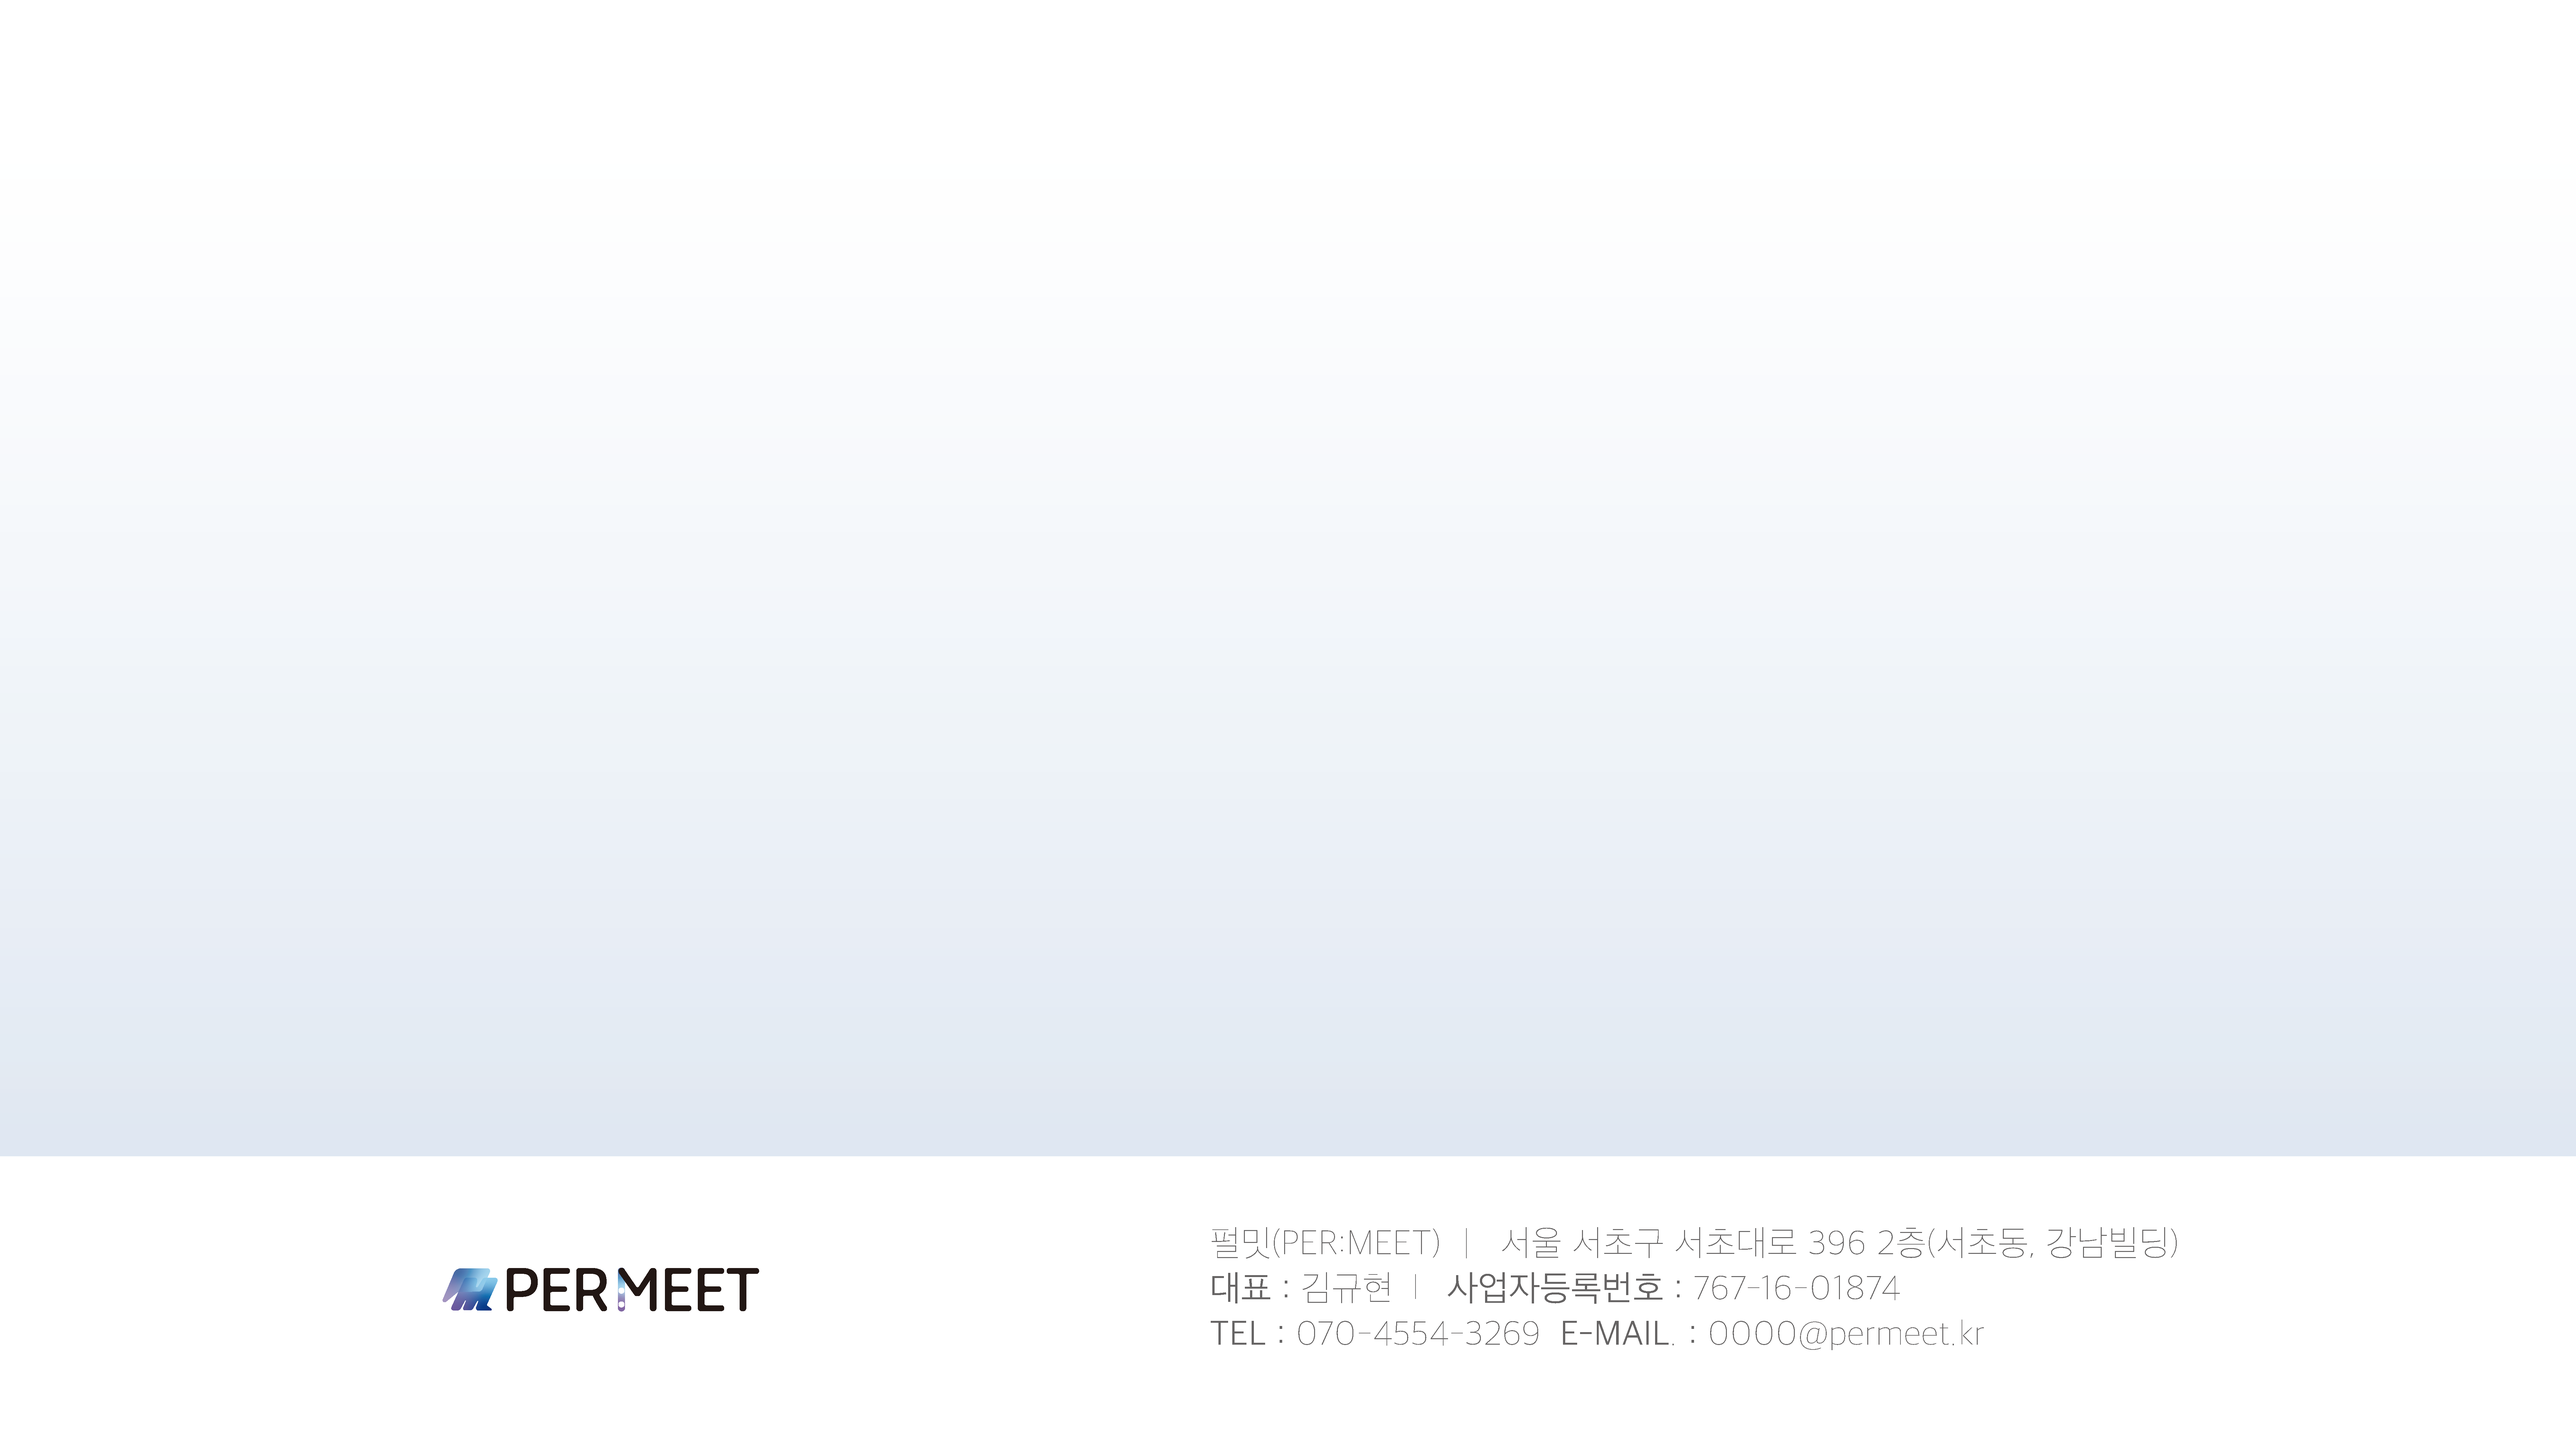
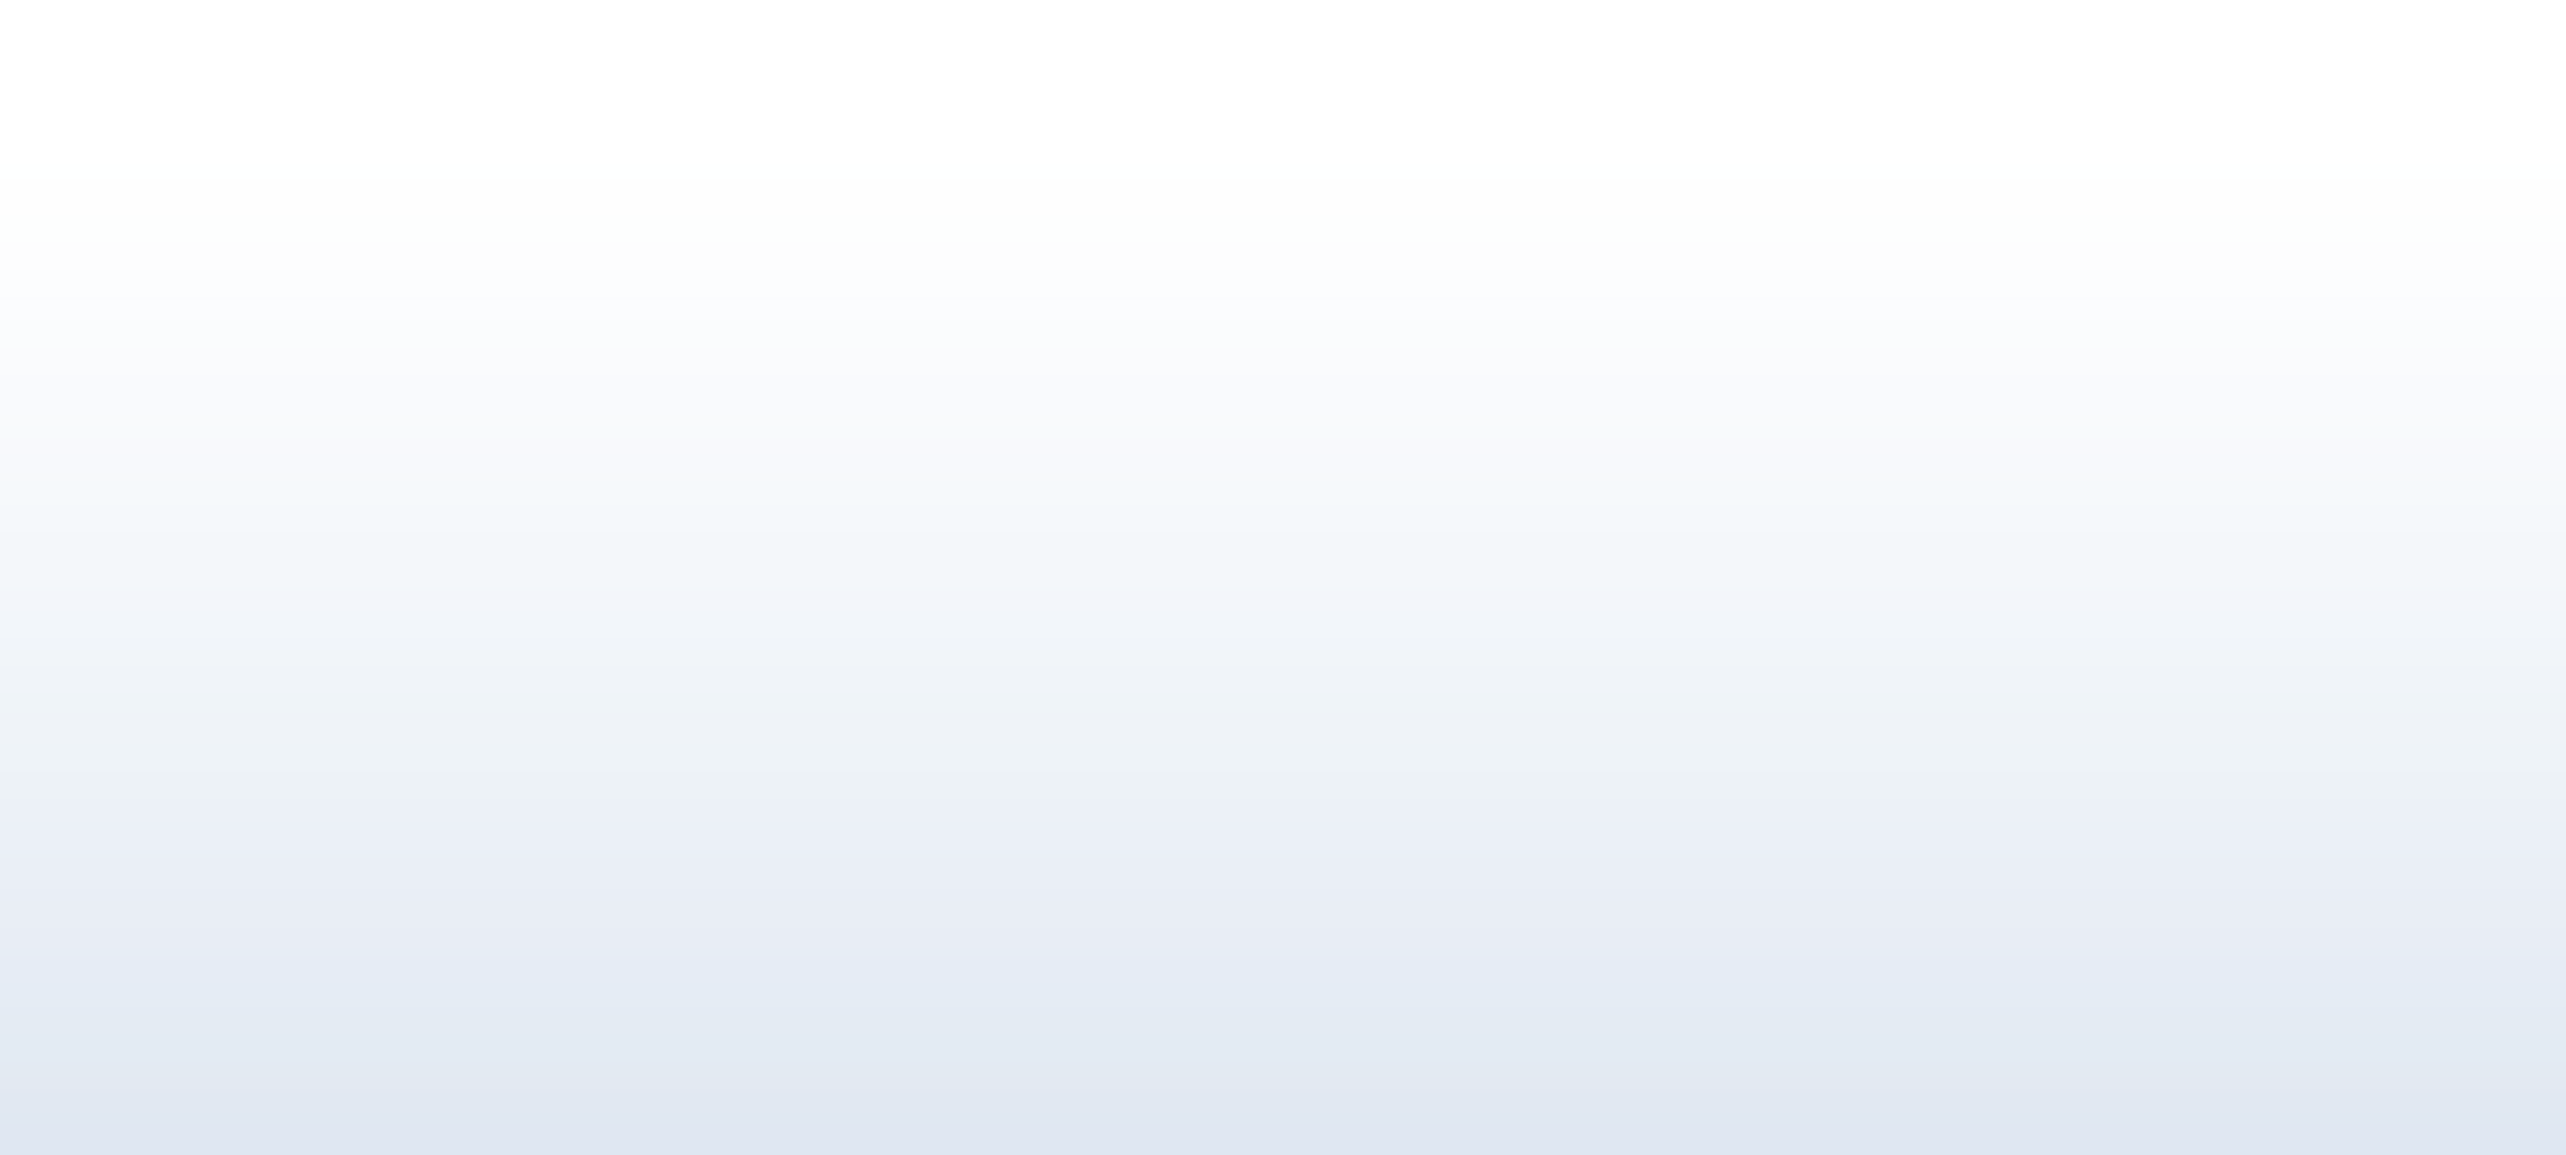
Add files via upload
update pages main

Changed region(s): [[0.0, 0.8118, 1.0, 1.0]]

diff --git a/index.html b/index.html
@@ -184,7 +184,7 @@
     -->
     <!-- Top Feature End -->
 
-    <section id="section_1">
+    <div class="section-padding" id="section_1">
         <div class="container">
             <div class="row justify-content-center">
 
@@ -217,7 +217,7 @@
                                     <img src="./img/main_section2_icon_2.png">
                                 </li>
                                 <li class="social-icon-item">
-                                    <img src="./img/main_section2_icon_1.png">
+                                    <img src="./img/main_section2_icon_3.png">
                                 </li>
                             </ul>
                         </div>
@@ -226,7 +226,51 @@
 
             </div>
         </div>
-    </section>
+    </div>
+
+    <div class="section-padding" id="section_2">
+        <div class="container">
+            <div class="row justify-content-center">
+                <div class="col-lg-5 col-12">
+                    <div class="d-flex flex-column h-100 align-items-center justify-content-center">
+                        <div class="d-flex justify-content-center mb-4">
+                            <div>
+                                <h3 class="text-center">
+                                    다년간의 교육운영 경험과<br>
+                                    분야별 전문가 네트워킹을<br>
+                                    바탕으로 높은 차원의 교육을<br>
+                                    제공하고 있습니다.<br>
+                                </h3>
+                            </div>
+                        </div>
+
+                        <div class="d-flex">
+                            <ul class="social-icon2">
+                                <li class="social-icon-item fadeInUp" data-wow-delay="0.1s">
+                                    <img src="./img/main_section3_icon_1.png">
+                                </li>
+
+                                <li class="social-icon-item fadeInUp" data-wow-delay="0.1s">
+                                    <img src="./img/main_section3_icon_2.png">
+                                </li>
+                                <li class="social-icon-item fadeInUp" data-wow-delay="0.1s">
+                                    <img src="./img/main_section3_icon_3.png">
+                                </li>
+                                <li class="social-icon-item fadeInUp" data-wow-delay="0.1s">
+                                    <img src="./img/main_section3_icon_4.png">
+                                </li>
+                            </ul>
+                        </div>
+                    </div>
+                </div>
+                <div class="col-lg-7 col-12 mb-4 mb-lg-0">
+                    <div class="shadow-lg">
+                        <img src="./img/main_section3_img.png" class="img-fluid" alt="">
+                    </div>
+                </div>\
+            </div>
+        </div>
+    </div>
 
     <!-- About Start 
     <div>
@@ -596,17 +640,18 @@
     <!-- Projects End -->
 
 
-    <!-- Team Start 
-    <div class="container-xxl py-5">
+    <!-- Team Start -->
+    <div id="section_3" class="py-5">
         <div class="container">
-            <div class="text-center mx-auto wow fadeInUp" data-wow-delay="0.1s" style="max-width: 500px;">
-                <p class="fs-5 fw-bold text-primary">Our Team</p>
-                <h1 class="display-5 mb-5">Dedicated & Experienced Team Members</h1>
+            <div class="text-start wow fadeInUp" data-wow-delay="0.1s" style="max-width: 500px;">
+                <!--<p class="fs-5 fw-bold text-primary">NEWS & INISIGHT</p>-->
+                <h1 class="display-5 mb-5">NEWS & INISIGHT</h1>
             </div>
             <div class="row g-4">
                 <div class="col-lg-4 col-md-6 wow fadeInUp" data-wow-delay="0.1s">
                     <div class="team-item rounded">
-                        <img class="img-fluid" src="img/team-1.jpg" alt="">
+                        <img class="img-fluid" src="./img/main_page_btn-01.png" alt="">
+                        <!--
                         <div class="team-text">
                             <h4 class="mb-0">Doris Jordan</h4>
                             <p class="text-primary">Landscape Designer</p>
@@ -616,11 +661,13 @@
                                 <a class="btn btn-square rounded-circle me-2" href=""><i class="fab fa-instagram"></i></a>
                             </div>
                         </div>
+                        -->
                     </div>
                 </div>
                 <div class="col-lg-4 col-md-6 wow fadeInUp" data-wow-delay="0.3s">
                     <div class="team-item rounded">
-                        <img class="img-fluid" src="img/team-2.jpg" alt="">
+                        <img class="img-fluid" src="./img/main_page_btn-02.png" alt="">
+                        <!--
                         <div class="team-text">
                             <h4 class="mb-0">Johnny Ramirez</h4>
                             <p class="text-primary">Garden Designer</p>
@@ -630,11 +677,13 @@
                                 <a class="btn btn-square rounded-circle me-2" href=""><i class="fab fa-instagram"></i></a>
                             </div>
                         </div>
+                        -->
                     </div>
                 </div>
                 <div class="col-lg-4 col-md-6 wow fadeInUp" data-wow-delay="0.5s">
                     <div class="team-item rounded">
-                        <img class="img-fluid" src="img/team-3.jpg" alt="">
+                        <img class="img-fluid" src="./img/main_page_btn-03.png" alt="">
+                        <!--
                         <div class="team-text">
                             <h4 class="mb-0">Diana Wagner</h4>
                             <p class="text-primary">Senior Gardener</p>
@@ -644,12 +693,13 @@
                                 <a class="btn btn-square rounded-circle me-2" href=""><i class="fab fa-instagram"></i></a>
                             </div>
                         </div>
+                        -->
                     </div>
                 </div>
             </div>
         </div>
     </div>
-    -->
+    
     <!-- Team End -->
 
 
@@ -687,7 +737,9 @@
 
 
     <!-- Footer Start -->
-    <div class="container-fluid bg-dark text-light footer mt-5 py-5 wow fadeIn" data-wow-delay="0.1s">
+    <div>
+        <img src="./img/footer.png" width="100%">
+        <!--
         <div class="container py-5">
             <div class="row g-5">
                 <div class="col-lg-3 col-md-6">
@@ -728,11 +780,12 @@
                 </div>
             </div>
         </div>
+        -->
     </div>
     <!-- Footer End -->
 
 
-    <!-- Copyright Start -->
+    <!-- Copyright Start 
     <div class="container-fluid copyright py-4">
         <div class="container">
             <div class="row">
@@ -740,12 +793,12 @@
                     &copy; <a class="border-bottom" href="#">Your Site Name</a>, All Right Reserved.
                 </div>
                 <div class="col-md-6 text-center text-md-end">
-                    <!--/*** This template is free as long as you keep the footer author’s credit link/attribution link/backlink. If you'd like to use the template without the footer author’s credit link/attribution link/backlink, you can purchase the Credit Removal License from "https://htmlcodex.com/credit-removal". Thank you for your support. ***/-->
                     Designed By <a class="border-bottom" href="https://htmlcodex.com">HTML Codex</a> Distributed By <a href="https://themewagon.com">ThemeWagon</a>
                 </div>
             </div>
         </div>
     </div>
+    -->
     <!-- Copyright End -->
 
 

diff --git a/css/style.css b/css/style.css
@@ -8,6 +8,11 @@
     --custom-btn-bg-hover-color:    #13547a;
 }
 
+.section-padding {
+    padding-top: 100px;
+    padding-bottom: 100px;
+}
+
 /*---------------------------------------
   CUSTOM BUTTON               
 -----------------------------------------*/
@@ -149,6 +154,17 @@
   .social-icon li img {
     width: 120px;
   }
+
+  .social-icon2 li {
+    list-style : none;
+    margin-right: 10px;
+    margin-left: 10px;
+  }
+
+  .social-icon2 li img {
+    width: 350px;
+    margin: 5px 0;
+  }
   
   .bg-design {
     background-color: #00B0FF;
@@ -237,7 +253,14 @@
     background-size: cover;
 }
 
+#section_2 {
+    background-image: url("../img/main_BK_3.png");
+}
 
+#section_3 {
+    background-size: cover;
+    background-image: url("../img/main_BK_4.png");
+}
 
 h1,
 .h1,

diff --git a/css/bootstrap.min.css b/css/bootstrap.min.css
@@ -71,7 +71,7 @@ h1,.h1,h2,.h2,h3,.h3,h4,.h4,h5,.h5,h6,.h6 {
     font-family: "Jost",sans-serif;
     font-weight: 700;
     line-height: 1.2;
-    color: #0F4229
+    color: #d7d7d7;
 }
 
 h1,.h1 {
